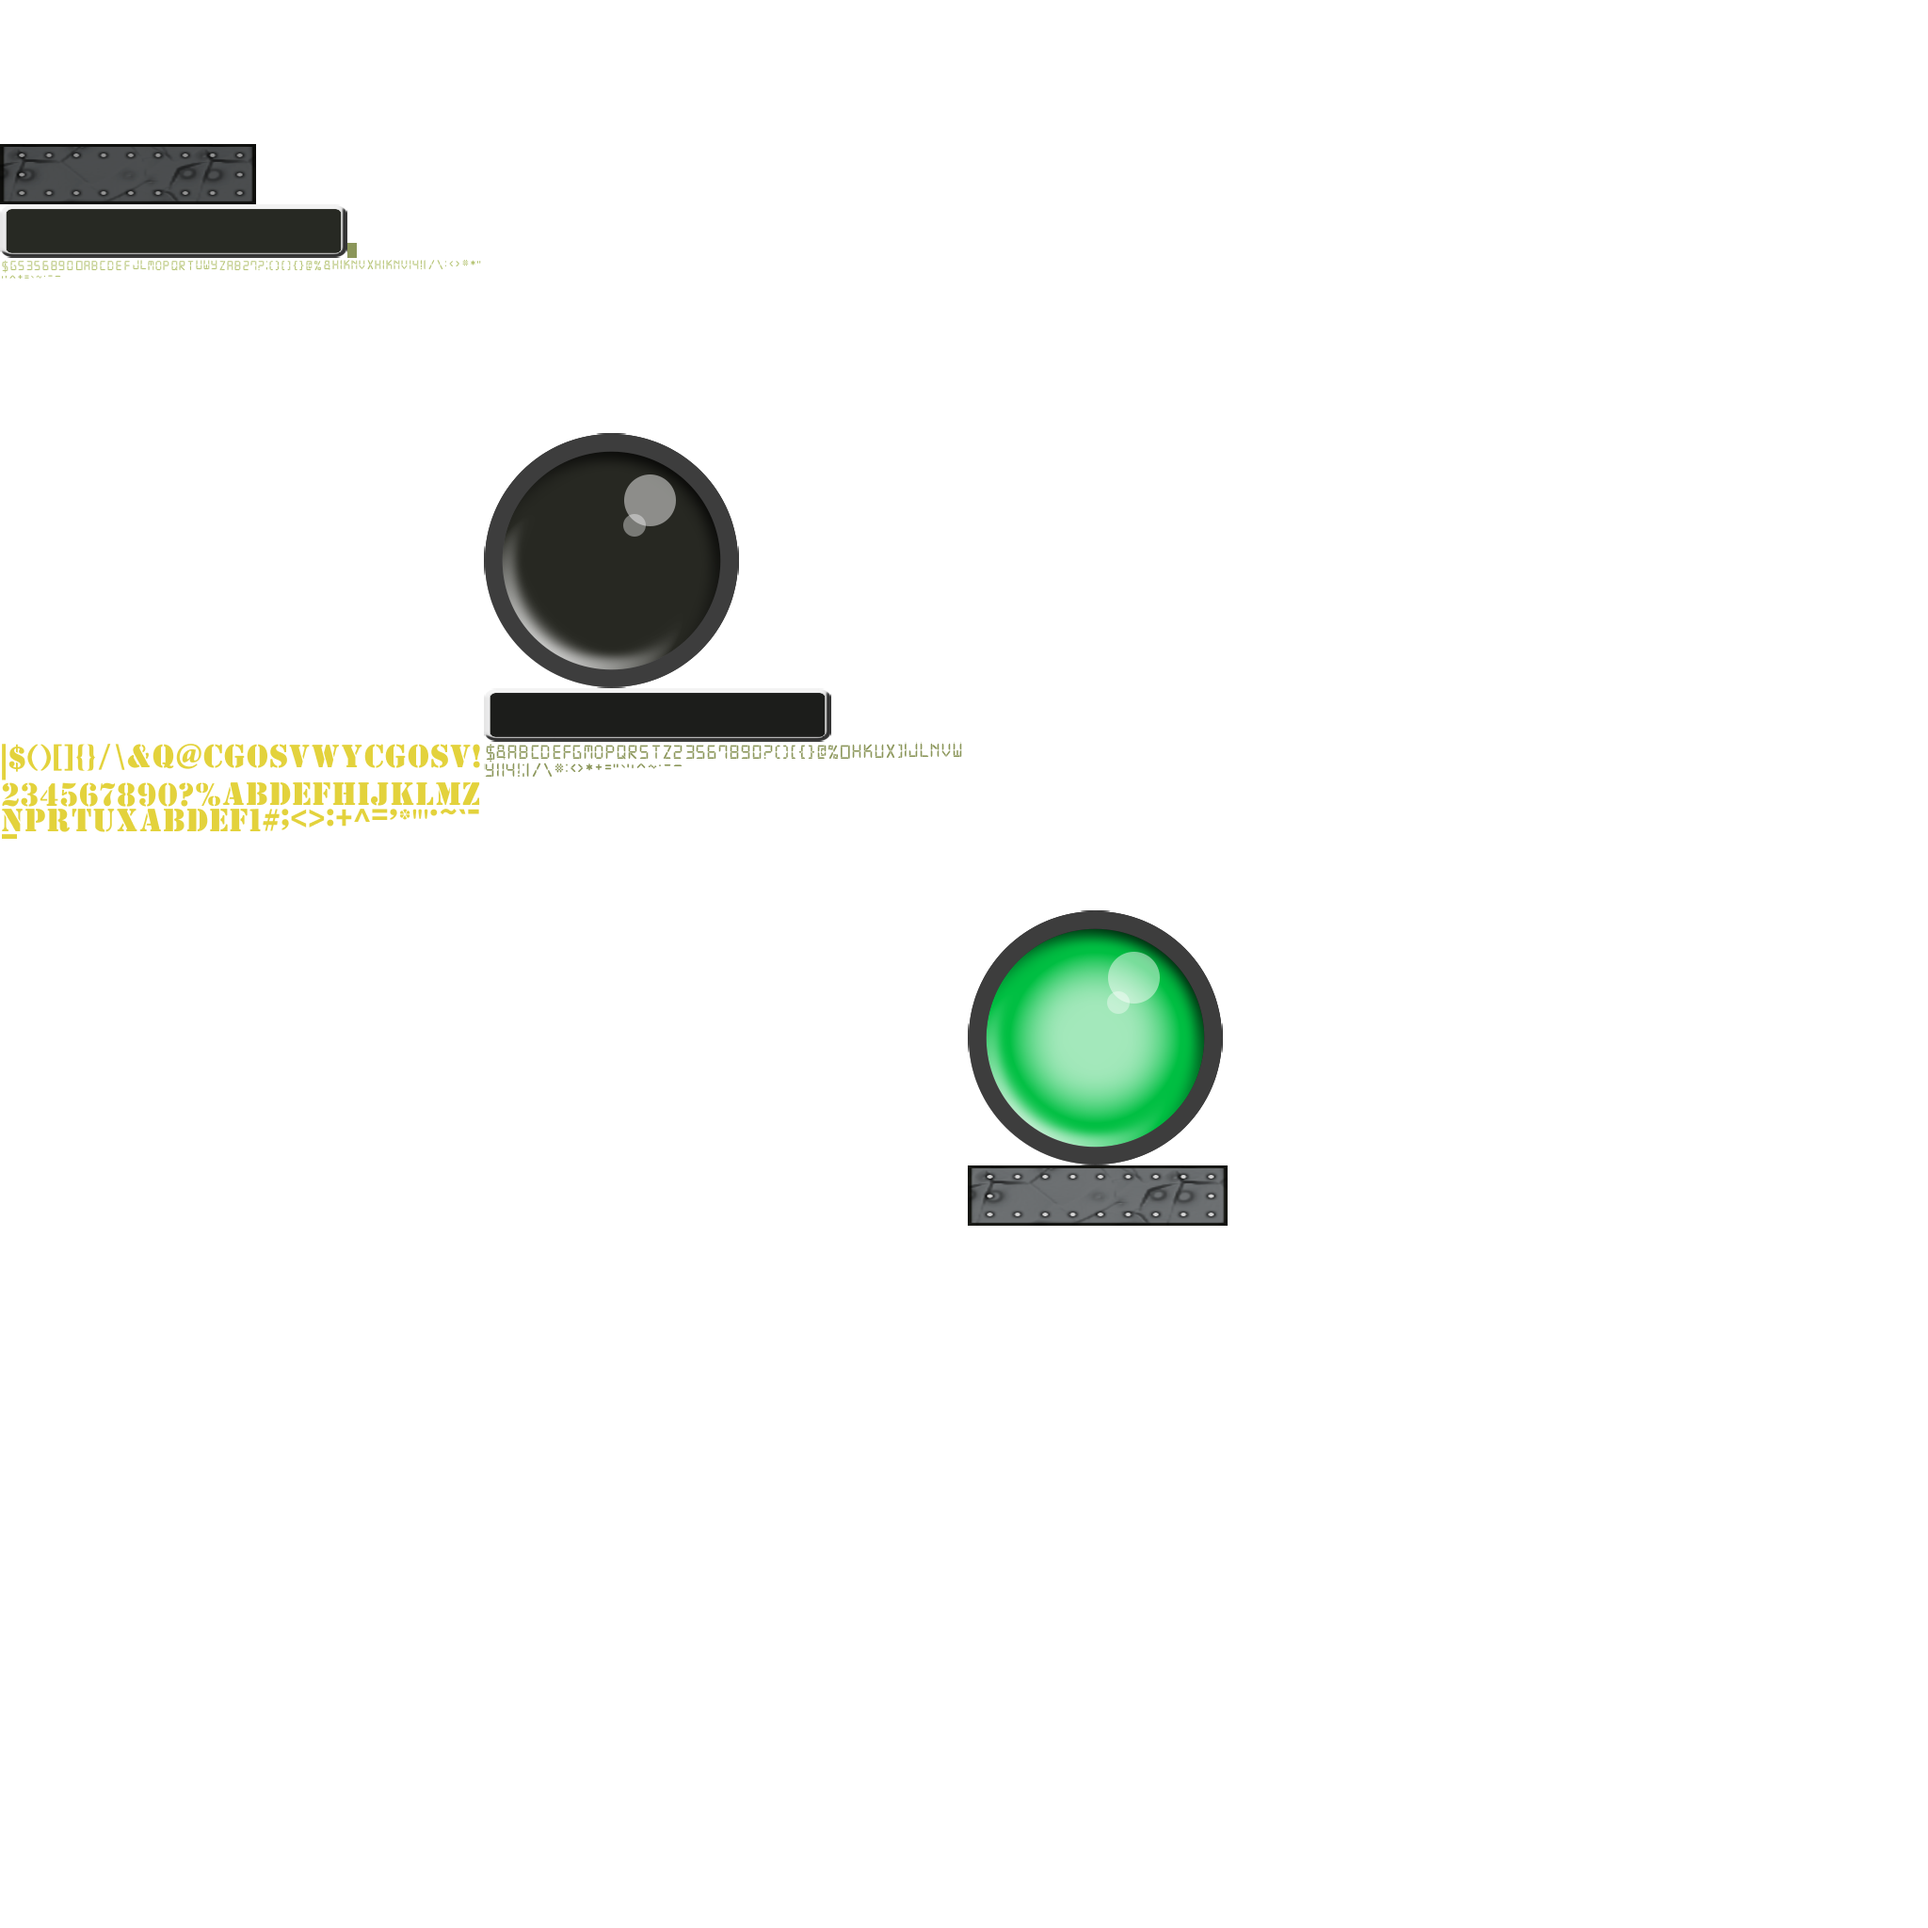
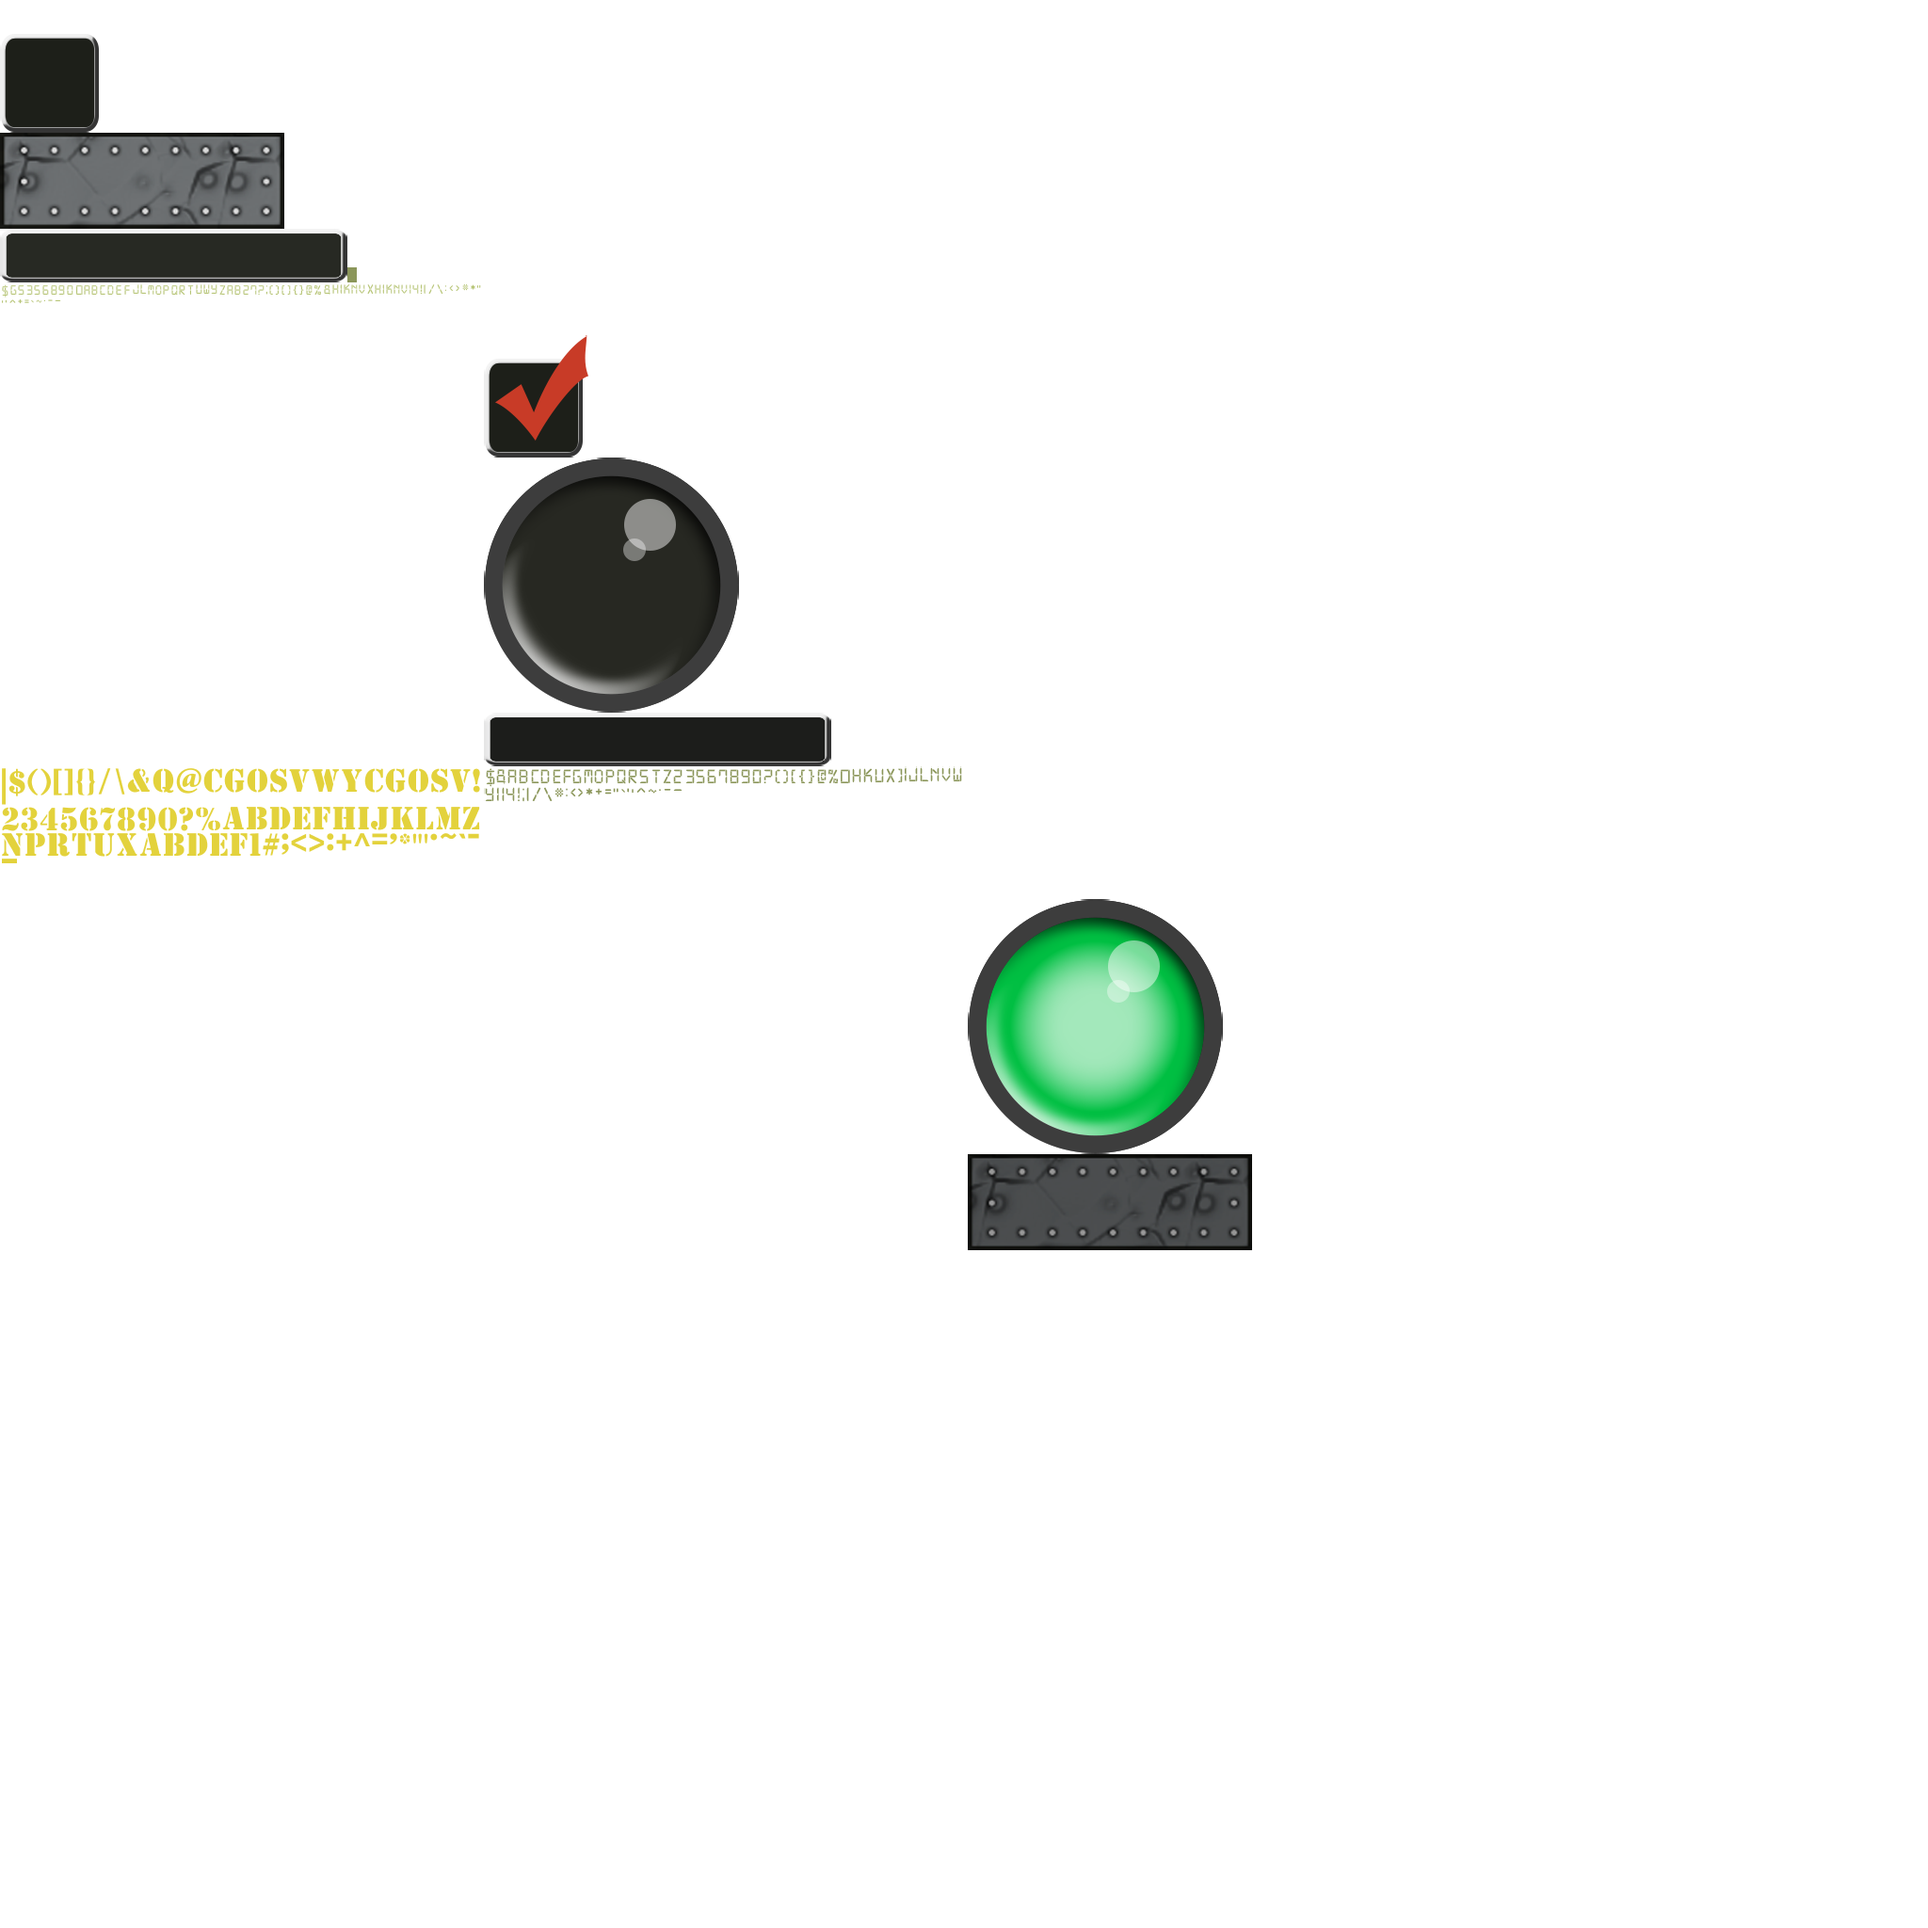
More things in Skin
Bigger Resolution for background and added background to settings menu, checkbox skin element.

Changed region(s): [[0.0, 0.1562, 0.5, 0.4688], [0.5, 0.4688, 0.6562, 0.6562], [0.0, 0.0, 0.2188, 0.1562]]

diff --git a/src/main/java/inf112/skeleton/app/screens/Settings.java b/src/main/java/inf112/skeleton/app/screens/Settings.java
@@ -4,15 +4,16 @@ import com.badlogic.gdx.Game;
 import com.badlogic.gdx.Gdx;
 import com.badlogic.gdx.Screen;
 import com.badlogic.gdx.graphics.GL20;
+import com.badlogic.gdx.graphics.Texture;
 import com.badlogic.gdx.graphics.g2d.BitmapFont;
 import com.badlogic.gdx.graphics.g2d.TextureAtlas;
 import com.badlogic.gdx.scenes.scene2d.InputEvent;
 import com.badlogic.gdx.scenes.scene2d.Stage;
 import com.badlogic.gdx.scenes.scene2d.ui.CheckBox;
+import com.badlogic.gdx.scenes.scene2d.ui.Image;
 import com.badlogic.gdx.scenes.scene2d.ui.Skin;
 import com.badlogic.gdx.scenes.scene2d.ui.TextButton;
 import com.badlogic.gdx.scenes.scene2d.utils.ClickListener;
-
 import inf112.skeleton.app.Setting;
 
 public class Settings implements Screen {
@@ -20,26 +21,32 @@ public class Settings implements Screen {
     private Stage stage;
     private Menu m;
     private Setting set;
-    private CheckBox devBox,musicBox;
-    
-    public Settings(Menu m,Setting set) {
+    private CheckBox devBox, musicBox;
+
+    public Settings(Menu m, Setting set) {
         this.m = m;
         this.set = set;
     }
-    
+
     @Override
-    public void show(){
+    public void show() {
         stage = new Stage();
-        BitmapFont font = new BitmapFont();
-        Skin skin = new Skin(Gdx.files.internal("assets/gui/skin/uiskin.json"));
-        TextureAtlas atlas = new TextureAtlas("assets/gui/skin/uiskin.atlas");
+
+        Texture imgTexture = new Texture(Gdx.files.internal("assets/Background.png"));
+        Image img = new Image(imgTexture);
+        img.setPosition(0, Gdx.graphics.getHeight() - img.getHeight());
+        stage.addActor(img);
+
+        BitmapFont font = new BitmapFont(Gdx.files.internal("assets/Fonts/ButtonFont.fnt"), Gdx.files.internal("assets/Fonts/ButtonFont.png"), false);
+        Skin skin = new Skin(Gdx.files.internal("assets/gui/skin/CustomSkin.json"));
+        TextureAtlas atlas = new TextureAtlas("assets/gui/skin/CustomSkin.atlas");
         skin.addRegions(atlas);
         TextButton.TextButtonStyle style = new TextButton.TextButtonStyle();
         style.font = font;
 
-        style.up = skin.getDrawable("apptheme_btn_radio_on_holo_light");
-        style.down = skin.getDrawable("apptheme_btn_radio_on_focused_holo_light");
-        
+        style.up = skin.getDrawable("TextButton");
+        style.down = skin.getDrawable("TextButtonPressed");
+
         TextButton button = new TextButton("Back", style);
         button.addListener(new ClickListener() {
 
@@ -49,58 +56,58 @@ public class Settings implements Screen {
                 System.out.println(musicBox.isChecked());
                 set.devMode = devBox.isChecked();
                 System.out.println(musicBox.isChecked());
-                ((Game)Gdx.app.getApplicationListener()).setScreen(m);
+                ((Game) Gdx.app.getApplicationListener()).setScreen(m);
             }
         });
         stage.addActor(button);
-        musicBox = new CheckBox("Music",skin);
+        musicBox = new CheckBox("Music", skin);
         musicBox.setPosition(400, 400);
         stage.addActor(musicBox);
-        
-        devBox = new CheckBox("Delevoper Mode",skin);
+
+        devBox = new CheckBox("Delevoper Mode", skin);
         devBox.setPosition(400, 400);
         stage.addActor(devBox);
-        
+
         Gdx.input.setInputProcessor(stage);
     }
 
     @Override
-    public void render(float delta){
+    public void render(float delta) {
         Gdx.gl.glClearColor(1, 1, 1, 1);
         Gdx.gl.glClear(GL20.GL_COLOR_BUFFER_BIT);
 
         stage.draw();
-        
+
     }
 
     @Override
-    public void resize(int width, int height){
+    public void resize(int width, int height) {
         // TODO Auto-generated method stub
-        
+
     }
 
     @Override
-    public void pause(){
+    public void pause() {
         // TODO Auto-generated method stub
-        
+
     }
 
     @Override
-    public void resume(){
+    public void resume() {
         // TODO Auto-generated method stub
-        
+
     }
 
     @Override
-    public void hide(){
+    public void hide() {
         // TODO Auto-generated method stub
-        
+
     }
 
     @Override
-    public void dispose(){
+    public void dispose() {
         // TODO Auto-generated method stub
-        
+
     }
 
 }

diff --git a/src/main/java/inf112/skeleton/app/screens/Menu.java b/src/main/java/inf112/skeleton/app/screens/Menu.java
@@ -39,7 +39,7 @@ public class Menu implements Screen {
 
         Texture imgTexture = new Texture(Gdx.files.internal("assets/Background.png"));
         Image img = new Image(imgTexture);
-        img.setPosition(-50, Gdx.graphics.getHeight() - img.getHeight());
+        img.setPosition(0, Gdx.graphics.getHeight() - img.getHeight());
         stage.addActor(img);
 
         BitmapFont font = new BitmapFont(Gdx.files.internal("assets/Fonts/ButtonFont.fnt"), Gdx.files.internal("assets/Fonts/ButtonFont.png"), false);
